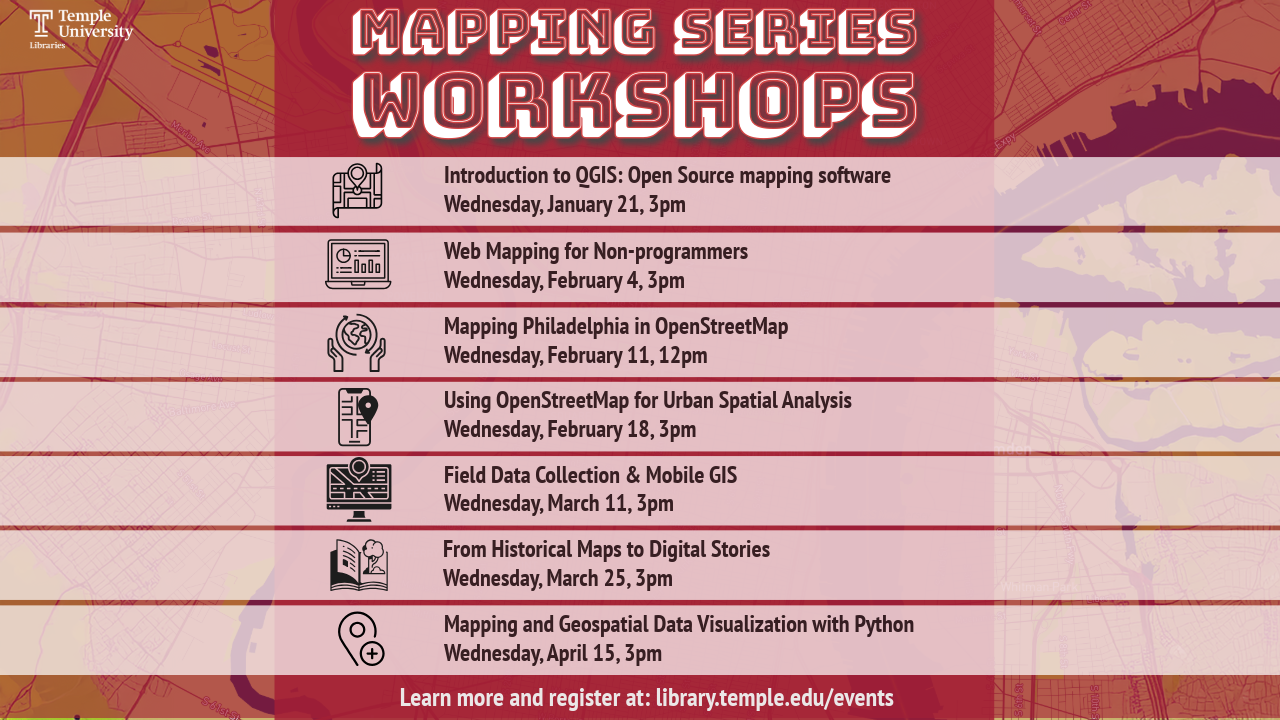
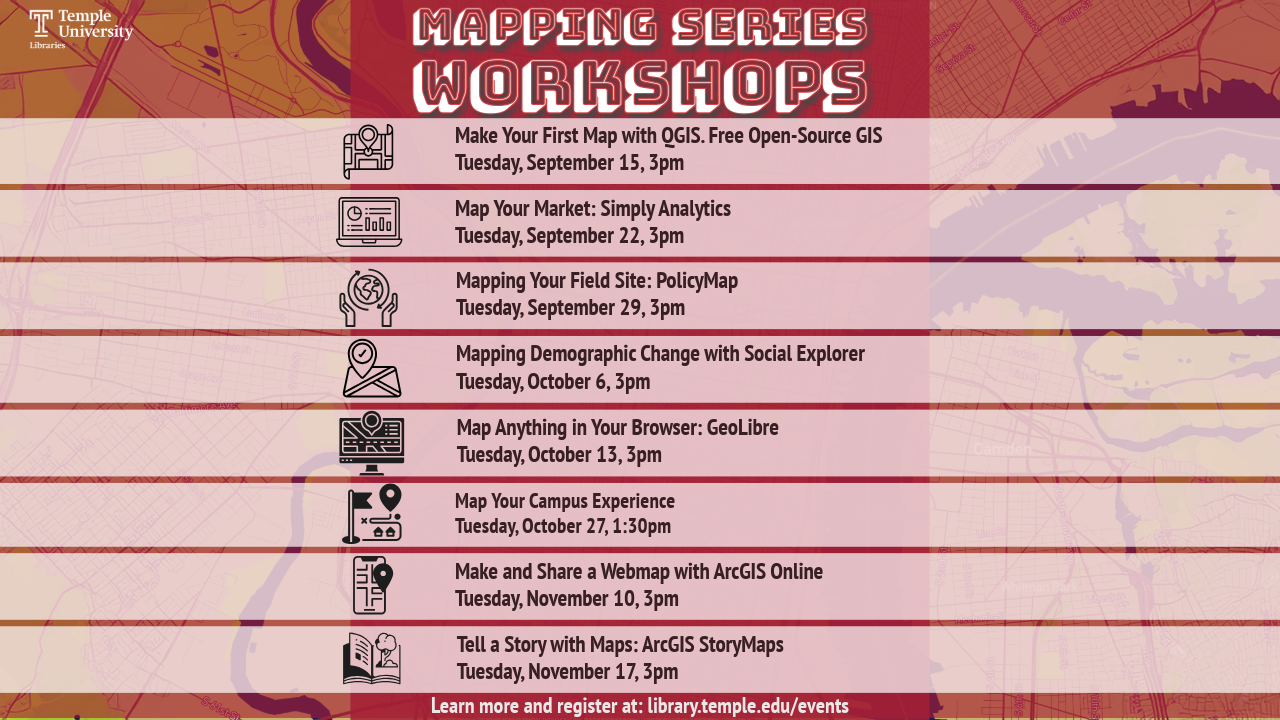
Updated to fall 2026

diff --git a/QGIS_intro2026/slides.md b/QGIS_intro2026/slides.md
@@ -1,7 +1,7 @@
 ---
 theme: seriph
 background: /assets/AdobeStock_263911828.jpeg
-title: Introduction to QGIS - Spring 2026
+title: Introduction to QGIS - Fall 2026
 class: text-center
 drawings:
   persist: false
@@ -25,7 +25,7 @@ Open Source Geographic Information System\
 Felipe Valdez\
 felipe.valdez@temple.edu\
 <br>
-January 2026
+September 2026
 
 
 <div class="abs-br m-6 text-xl">
@@ -185,7 +185,7 @@ level: 2
 
 ---
 layout: image
-image: https://upload.wikimedia.org/wikipedia/commons/thumb/c/c2/QGIS_logo%2C_2017.svg/2560px-QGIS_logo%2C_2017.svg.png?20170501030013
+image: https://upload.wikimedia.org/wikipedia/commons/c/c2/QGIS_logo%2C_2017.svg?utm_source=commons.wikimedia.org&utm_campaign=index&utm_content=original
 backgroundSize: contain
 transition: slide-up
 ---
@@ -232,7 +232,7 @@ h1 {
       :initial="{ y: 500, x: -100, scale: 2 }"
       :click-1="appleFinal"
       class="absolute w-16 h-16"
-      src="https://upload.wikimedia.org/wikipedia/commons/thumb/f/fa/Apple_logo_black.svg/1024px-Apple_logo_black.svg.png"
+      src="https://upload.wikimedia.org/wikipedia/commons/3/30/MacOS_logo.svg?utm_source=commons.wikimedia.org&utm_campaign=index&utm_content=original"
       alt=""
   />
     
